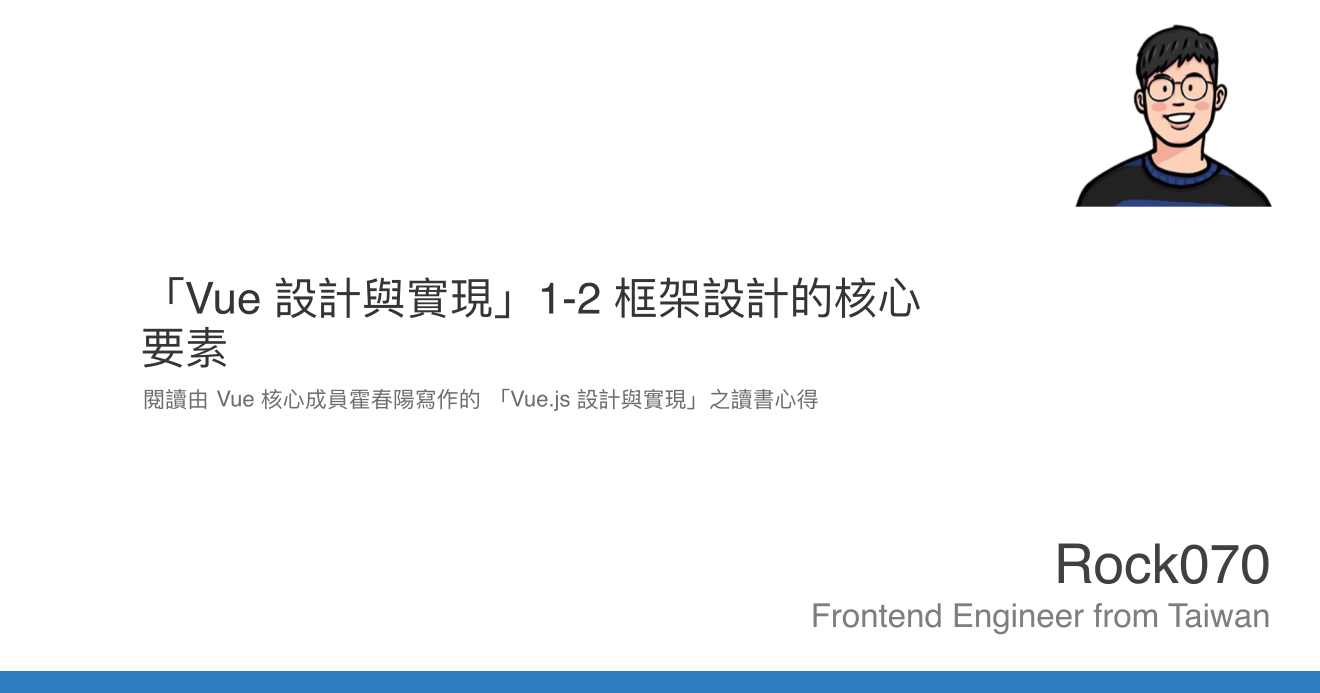
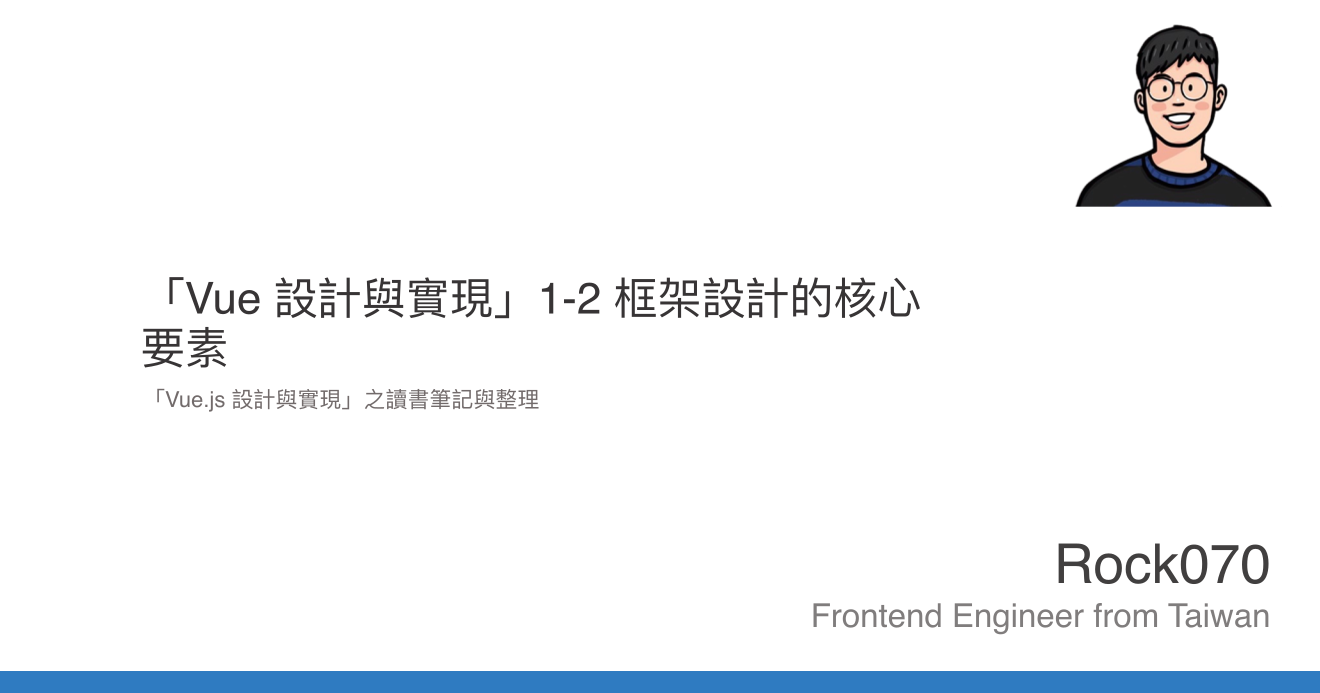
docs: 設計與實現

Changed region(s): [[0.0932, 0.5455, 0.6212, 0.6061]]

diff --git a/content/1.notes/1.vue/2023-05-04-vue-design-and-practive-2-1.md b/content/1.notes/1.vue/2023-05-04-vue-design-and-practive-2-1.md
@@ -1,0 +1,118 @@
+---
+date: 2023-05-04 23:44:06
+title: 「Vue 設計與實現」響應系統原理（一）
+description: 「Vue.js 設計與實現」之讀書筆記與整理 - 使用 Proxy 簡單設計一個響應系統
+categories: [Vue]
+---
+
+::Association
+關聯： [[「Vue 設計與實現」第二篇 - 響應系統的作用與實現]]
+::
+
+響應式系統式 Vue.js 的重要組成之一，本篇會先介紹「副作用函式」與「響應式資料」，並簡單實現一個響應式系統
+
+## 副作用函式
+
+副作用函式指的是函式的執行會直接或間接影響到其他函數的執行，就可以說此函數產生了副作用，如下面這個範例，effect 函數修改了全域變數 val，因為 val 也可能會被其他函式引用，effect 的執行影響到了其他函數的執行結果，所以 effect 就是副作用函式。
+
+```js [effect.js]
+let val = 1
+
+function effect() {
+  val = 2 // 修改到全域變數，產生副作用
+}
+
+function getVal() {
+  return val
+}
+```
+
+## 響應式資料
+
+響應式資料的概念是，當一筆資料在某些程式碼內被讀取了，則這些讀取的程式碼，應該被收集起來，當該資料改變後，重新執行一次收集起來的有讀取到該資料的程式碼，例如如，下面的 effect 函式中，`document.body.innerText = obj.text` 讀取了 `obj.text`，所以當 `obj.text` 更改後，預期要重新執行一次 `document.body.innerText = obj.text` 這個副作用程式碼。
+
+- 當副作用函式 effect 執行的時候，會觸發 `obj.text` 的**讀取**（**get**）操作。
+- 當修改 `obj.text` 的時候，會出發 `obj.text` 收集起來的**設值**（**set**）操作。
+
+```js [effect.js]
+const obj = { text: 'hello world' }
+function effect() {
+  // effect 函式的執行會讀取 obj.text
+  document.body.innerText = obj.text
+}
+```
+
+故我們需要設計一個攔截器（Proxy），可以在我們讀取時（get）實現收集副作用程式碼，設值（get）時執行副作用程式碼。
+
+::alert{type="warning"}
+
+1. 執行 `effect()`
+2. 觸發讀取操作
+3. 收集副作用存進副作用的桶子
+4. `obj.text = 'goodbye'`
+5. 取出存儲副作用的桶內的副作用，執行
+::
+
+## 簡單實現
+
+下面這段程式碼簡單實現響應式資料的基本原理：
+
+1. 宣告一個副作用桶子 `const bucket = new Set()`，專門收集副作用。
+2. 宣告一個攔截器 `new Proxy`，在讀取與設值時攔截，並在 proxy 被**讀取時把 effect 收集進 bucket 桶子中**，在被**設值時把 bucket 用 forEach 執行一遍**
+
+```js [effect.js]
+const proxy = new Proxy(data, {
+  get(target, key) {
+    bucket.add(effect) // 讀取時收集副作用
+    return target[key]
+  },
+  set(target, key, newValue) {
+    target[key] = newValue
+    bucket.forEach(fn => fn()) // 設值時收集的副作用每個都執行一次
+
+    return true // return true 代表設值成功
+  },
+})
+```
+
+3. 執行 effect 函式，把 body 的 `innerText` 改為 `proxy.text`（hello world)，並把修改 `body.innerText` 這件事情收集進去副作用桶子`bucket`內。
+4. 等待兩秒，執行 `proxy.text = 'goodbye'`
+5. proxy 攔截到**設值**，所以把 bucket 拿出來迴圈執行一遍
+6. `body.innerText` 被設定為 proxy.text 的新值 `'goodbye'`。
+
+## 完整程式碼
+
+[簡單實現響應式資料 - stackblitz](https://stackblitz.com/edit/js-wd154u?file=index.js)
+
+```js
+// 副作用函式
+function effect() {
+  document.body.innerText = proxy.text
+}
+
+// 副作用收集「桶子」
+const bucket = new Set()
+
+const data = { text: 'hello world', age: 22 }
+
+const proxy = new Proxy(data, {
+  get(target, key) {
+    bucket.add(effect) // 讀取時收集副作用
+    return target[key]
+  },
+  set(target, key, newValue) {
+    target[key] = newValue
+    bucket.forEach(fn => fn()) // 設值時收集的副作用每個都執行一次
+
+    return true // return true 代表設值成功
+  },
+})
+
+effect()
+
+setTimeout(() => {
+  proxy.text = 'goodbye'
+}, 2000)
+```
+
+實際上這個系統還有很多缺陷，例如 effect 的函式名稱是固定的，這樣很不彈性。

diff --git a/content/1.notes/1.vue/2023-05-04-vue-design-and-practive-2-2.md b/content/1.notes/1.vue/2023-05-04-vue-design-and-practive-2-2.md
@@ -1,0 +1,132 @@
+---
+date: 2023-05-05 00:44:06
+title: 「Vue 設計與實現」響應系統原理（二）
+description: 「Vue.js 設計與實現」之讀書筆記與整理 - 提高響應系統對副作用函式收集的彈性
+categories: [Vue]
+---
+
+::Association
+關聯： [[「Vue 設計與實現」第二篇 - 響應系統的作用與實現]]
+::
+
+為了讓 effect 函式可以彈性的接受不同的 function 名稱與接受匿名函式，可以把原本的 effect **副作用函式**改造為 effectRegister **註冊並且執行副作用的函式**
+
+1. 新增全域變數 activeEffect
+2. effect 改為 effectRegister
+
+::code-group
+
+  ```js [Before]
+  function effect() {
+    console.log('effect run')
+    document.body.innerText = proxy.text
+  }
+  ```
+
+  ```js [After]
+  // 副作用函式
+  let activeEffect
+
+  // 註冊副作用的函式並執行
+  function effectRegister(fn) {
+    activeEffect = fn // 註冊
+    fn() // 執行
+  }
+
+  // 執行註冊
+  effectRegister(() => {
+    document.body.innerText = proxy.text
+  })
+  ```
+
+::
+
+從上面的程式碼可以看到，effect 不再是硬編碼，而是保有函式名稱彈性的。
+
+接下來需要調整 get 的流程，從原本收集 effect 改為收集 activeEffect
+
+::code-group
+
+```js [Before]
+const proxy = new Proxy(data, {
+  get(target, key) {
+    bucket.add(effect) // 舊版直接拿 effect 收集進桶中
+    return target[key]
+  },
+  set(target, key, newValue) {
+    target[key] = newValue
+    bucket.forEach(fn => fn())
+
+    return true
+  },
+})
+```
+
+```js [After]
+const proxy = new Proxy(data, {
+  get(target, key) {
+    if (activeEffect)
+      bucket.add(activeEffect) // 新版改為拿 activeEffect 收集進入桶中
+    console.log(target, key)
+    return target[key]
+  },
+  set(target, key, newValue) {
+    target[key] = newValue
+    bucket.forEach(fn => fn())
+
+    return true
+  },
+})
+```
+
+::
+
+## 完整程式碼
+
+[effect 改為 effect 註冊器 - stackblitz](https://stackblitz.com/edit/js-wzmhdt?file=index.js)
+
+```js
+/**
+ * 副作用函式
+ */
+let activeEffect
+
+/**
+ * 註冊副作用的函式
+ * effect => effectRegister
+ */
+function effectRegister(fn) {
+  activeEffect = fn // 註冊
+  fn() // 執行
+}
+
+const bucket = new Set()
+
+const data = { text: 'hello world', age: 22 }
+
+const proxy = new Proxy(data, {
+  get(target, key) {
+    if (activeEffect)
+      bucket.add(activeEffect)
+    console.log(target, key)
+    return target[key]
+  },
+  set(target, key, newValue) {
+    target[key] = newValue
+    bucket.forEach(fn => fn())
+
+    return true
+  },
+})
+
+effectRegister(() => {
+  console.log('effect run')
+  document.body.innerText = proxy.text
+})
+
+setTimeout(() => {
+  proxy.notExist = 'goodbye' // 這邊讀取不存在的屬性，仍會執行整個 proxy 副作用收集的回調 `bucket.forEach(fn => fn()`
+}, 2000)
+```
+
+解決了函式彈性的問題，上方的程式碼仍有一個問題，若我對 proxy 不存在的屬性設值，如 `proxy.notExist = 'goodbye'`，按照目前的設計，仍會執行 set 當中的副作用回調 `bucket.forEach(fn => fn())`，但響應系統理想的設計，應該是**只收集被讀取的屬性，而不是整個物件被收集**，所以我們需要對「桶」做重新設計。

diff --git a/content/1.notes/1.vue/2023-04-25-vue-design-and-practive-1-2.md b/content/1.notes/1.vue/2023-04-25-vue-design-and-practive-1-2.md
@@ -1,7 +1,7 @@
 ---
-date: 2023-04-11 21:50:06
+date: 2023-04-18 21:50:06
 title: 「Vue 設計與實現」1-2 框架設計的核心要素
-description: 閱讀由 Vue 核心成員霍春陽寫作的 「Vue.js 設計與實現」之讀書心得
+description: 「Vue.js 設計與實現」之讀書筆記與整理
 categories: [Vue]
 ---
 
@@ -149,12 +149,11 @@ Vue 打包後，可以看到有非常多產出
 在 vue 的 index.js 中，有以下程式碼，透過 `process.env.NODE_ENV === 'production'` 來區分使用哪個環境的打包產物。
 
 ```js [index.js]
-if (process.env.NODE_ENV === 'production') {
+if (process.env.NODE_ENV === 'production')
   module.exports = require('./dist/vue.cjs.prod.js')
-}
-else {
+
+else
   module.exports = require('./dist/vue.cjs.js')
-}
 ```
 
 另外，如何區分不同的模組規範？其實一般 package.json中的 main 和 module 来指定的

diff --git a/content/1.notes/1.vue/2023-04-11-vue-design-and-practice-1-1.md b/content/1.notes/1.vue/2023-04-11-vue-design-and-practice-1-1.md
@@ -1,7 +1,7 @@
 ---
-date: 2023-04-10 21:50:06
+date: 2023-04-17 21:50:06
 title: 「Vue 設計與實現」1-1 權衡的藝術
-description: 閱讀由 Vue 核心成員霍春陽寫作的 「Vue.js 設計與實現」之讀書心得
+description: 「Vue.js 設計與實現」之讀書筆記與整理
 categories: [Vue]
 ---
 

diff --git a/content/1.notes/1.vue/2023-04-11-vue-design-and-learning-focus.md b/content/1.notes/1.vue/2023-04-11-vue-design-and-learning-focus.md
@@ -1,7 +1,7 @@
 ---
 date: 2023-04-10 21:43:06
 title: 「Vue 設計與實現」學習重點
-description: 閱讀由 Vue 核心成員霍春陽寫作的 「Vue.js 設計與實現」之讀書心得
+description: 「Vue.js 設計與實現」之讀書筆記與整理
 categories: [Vue]
 ---
 

diff --git a/content/1.notes/9.JavaScript/2023-04-30-double-unary-operator.md b/content/1.notes/9.JavaScript/2023-04-30-double-unary-operator.md
@@ -1,7 +1,7 @@
 ---
-date: 2023-04-30 03:43:34
+date: 2023-04-17 03:43:34
 title: JS 雙波浪符（~~）
-description:
+description: JavaScript NOT 運算符在實際場景的運用案例
 categories: [JavaScript]
 ---
 
